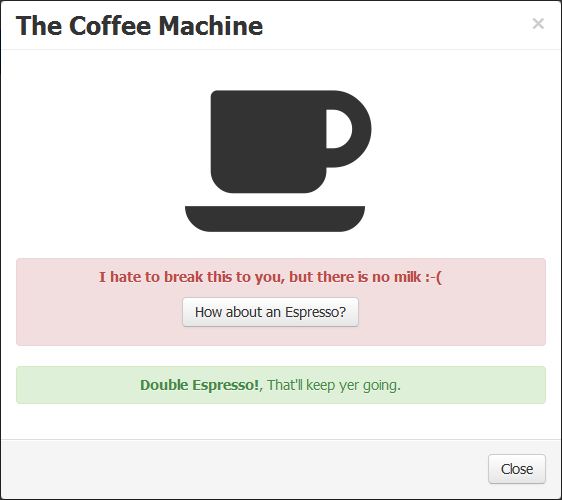
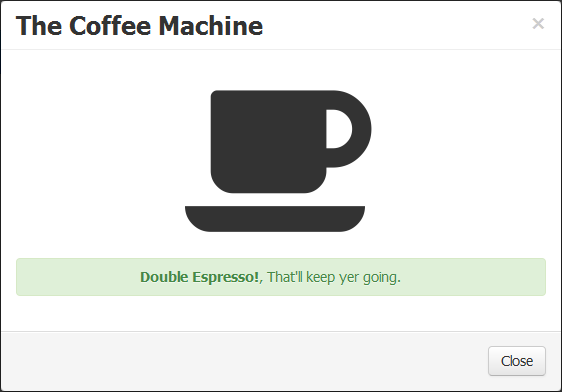
tweaks to tests and visualisation

diff --git a/visualisation/d3FlowTree.js b/visualisation/d3FlowTree.js
@@ -1,5 +1,5 @@
 /*
-	Visualisation based on http://bl.ocks.org/mbostock/4063570
+	Example visualisation based on http://bl.ocks.org/mbostock/4063570
 	
 	D3.js and jQuery are dependencies
 
@@ -24,8 +24,8 @@ function createD3Tree(root, config){
 	var fileRoot = config.root || '';
 
 	var width = $(window).width();
-	var height = 1200;
-	var cluster = d3.layout.cluster().size([height , width - 400]);
+	var height = 1000;
+	var cluster = d3.layout.cluster().size([height , width - 220]);
 	var diagonal = d3.svg.diagonal().projection(function(d) { return [d.y, d.x]; });
 
 	var nodes = cluster.nodes(root);
@@ -35,7 +35,7 @@ function createD3Tree(root, config){
 		.attr("width", width)
 		.attr("height", height)
 		.append("g")
-		.attr("transform", "translate(160,-10)");
+		.attr("transform", "translate(100,-10)");
 
 	d3.select(self.frameElement).style("height", height + "px");
 
@@ -136,19 +136,19 @@ function createD3Tree(root, config){
 
 			var width = Number(tooltip.style("width").replace('px', ''));
 			var height = Number(tooltip.style("height").replace('px', ''));
-			var right = event.pageX + 10 + width;
-			var top = event.pageY-10 + height;
+			var right = d3.event.pageX + 10 + width;
+			var top = d3.event.pageY-10 + height;
 
 			if(right > document.body.clientWidth){
-				right = event.pageX-10 - width;
+				right = d3.event.pageX-10 - width;
 			} else {
-				right = event.pageX+10;
+				right = d3.event.pageX+10;
 			}
 
 			if( top > document.body.clientHeight){
-				top = event.pageY-10 - height;
+				top = d3.event.pageY-10 - height;
 			} else {
-				top = event.pageY-10;
+				top = d3.event.pageY-10;
 			}
 
 			return tooltip.style("top", top +"px").style("left", right+"px");
@@ -177,10 +177,12 @@ function createD3Tree(root, config){
 			}
 		});
 
+	var dy = !!window.chrome ? 6 : 22;
+
 	node.append("text")
-		.attr("dx", function(d) { return d.isBranchRoot ? 9 : d.children ? -12 : 12; })
-		.attr("dy", function(d) { return d.isBranchRoot ? 20 : d.children ? 6 : 6; })
+		.attr("dx", function(d,e, f) { return d.isBranchRoot ? 8 : d.children ? -15 : 15; })
+		.attr("dy", function(d) { return d.isBranchRoot ? 22 : d.children ? dy  : dy ; })
 		.attr("class", function(d) { return d.isDecisionRoot ? 'text decisiontext' : d.isChanceRoot ? 'text chancetext' : d.children ? 'text steptext' : 'text endtext'; })
-		.attr("transform",  function(d) { return (d.children && !d.isBranchRoot) ? "rotate(320)" : "rotate(0)"; })
+		.attr("transform",  function(d) { return (d.children && !d.isBranchRoot) ? "rotate(330)" : "rotate(0)"; })
 		.text(function(d) { return d.name; });
 }

diff --git a/visualisation/main.css b/visualisation/main.css
@@ -1,15 +1,18 @@
 body {
-	background: black;
+	background: #222;
 	font-family: sans-serif;
 	font-size: 11px;
 }
+
 
 .step circle {
 	fill: orange;
 	stroke: grey;
 	stroke-width: 2px;
 }
-
+.active circle {
+	fill: #338833;
+}
 .chanceRoot circle {
 	fill: #333;
 	stroke: grey;
@@ -30,7 +33,7 @@ body {
 }
 
 .screenshot circle {
-	stroke: green;
+	stroke: lightgreen;
 	stroke-width: 3px;
 }
 
@@ -60,20 +63,15 @@ body {
 .endtext{
 	text-anchor: start;
 }
-.decisiontext{
-	text-anchor: end;
+.decisiontext,
+.chancetext {
+	text-anchor: middle;
 	fill: black;
-	stroke: #aaa;
+	stroke: #ccc;
 	stroke-width: 1px;
 	font-size: 11px;
 }
-.chancetext{
-	text-anchor: end;
-	fill: black;
-	stroke: #aaa;
-	stroke-width: 1px;
-	font-size: 11px;
-}
+
 .steptext{
 	text-anchor: end;
 }
@@ -95,10 +93,12 @@ select {
 }
 .key span {
 	display: inline-block;
-	width: 12px;
+	width: 14px;
 	border-radius: 50%;
 	border: 2px solid grey;
-	height: 12px;
+	height: 14px;
+	position: relative;
+	top: 4px;
 }
 
 .key span.unimplemented {
@@ -111,21 +111,26 @@ select {
 	background-color: #333;
 }
 .key span.passed {
-	background-color: #00ff33;
+	background-color: #338833;
 }
 .key span.failed {
 	background-color: red;
 }
 .key span.screenshot {
-	border-color: green;
+	border-color: #66dd66;
+	height: 11px;
+	width: 11px;
+	border-width: 4px;
 }
 .key span.failedScreenshot {
 	border-color: red;
+	height: 11px;
+	width: 11px;
+	border-width: 4px;
 }
 
-.active circle {
-	fill: #00ff33;
-}
+
+
 
 @-webkit-keyframes blink {
 	0% {

diff --git a/demo/coffeemachine.html b/demo/coffeemachine.html
@@ -16,8 +16,9 @@
 				color: #333;
 			}
 
-			#cappuccino-success{
-				background-color: green;
+			/* Comment out this block to fix failing visual regression test */
+			#cappuccino-success { 
+				background-color: #66aa66;
 			}
 
 		</style>
@@ -96,7 +97,7 @@
 
 			window.async_isThereMilk(function(hasMilk){
 				if(hasMilk){
-					$('#latte-success').show();
+					//$('#latte-success').show(); // Un-comment to fix failing functional test
 				} else {
 					$('#milk-fail').show();
 				}
@@ -114,6 +115,7 @@
 			});
 		});
 		$('#espresso-button').click(function(){
+			$('#milk-fail').hide();
 			$('#screen-one').hide();
 			$('#espresso-option').show();
 		});

diff --git a/demo/phantomFlowReport.html b/demo/phantomFlowReport.html
@@ -10,8 +10,26 @@
 
 <link href="/PhantomFlow/visualisation/main.css" rel="stylesheet">
 
+<style>
+	.github-link {
+		color: #eee;
+		font-size: 16px;
+		margin: 4px;
+		text-decoration: none;
+		font-weight: bold;
+	}
+	.intro {
+		color: #eee;
+		margin: 4px;
+		line-height: 8px;
+	}
+</style>
+
 </head>
 <body>
+
+	<a href="https://github.com/Huddle/PhantomFlow" class="github-link">PhantomFlow</a>
+	<p class="intro">Describe and visualise user flows through tests with PhantomJS</p>
 
 	<script>
 

diff --git a/demo/coffeemachine.test.js b/demo/coffeemachine.test.js
@@ -153,7 +153,7 @@ This example demonstrates integration of PhantomFlow with PhantomCSS (https://gi
 	function requestEspresso (){
 		casper.click('#espresso-button');
 		casper.waitForSelector(
-			'.alert:not([style*="display: none"])', 
+			'.alert-danger[style*="display: none"]', 
 			function success(){
 				css.screenshot('#myModal');
 				casper.test.pass('Should see espresso choice');
